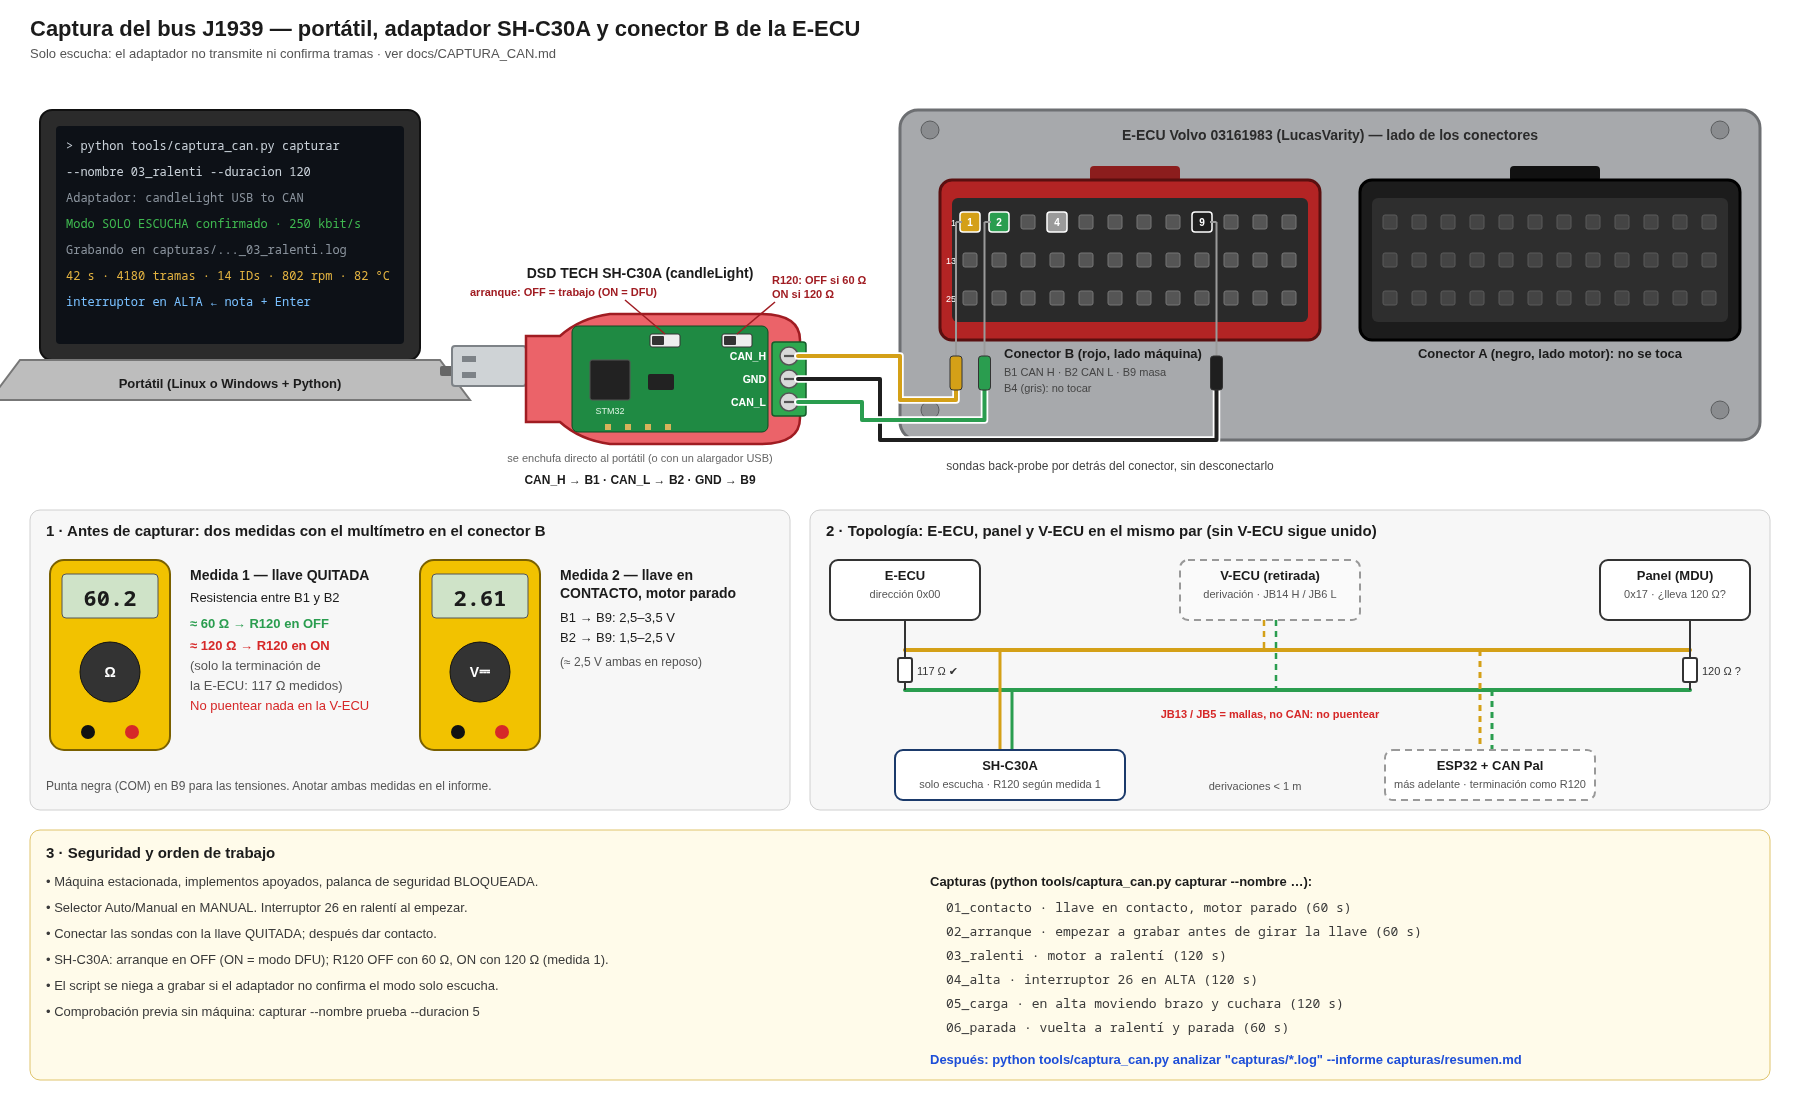
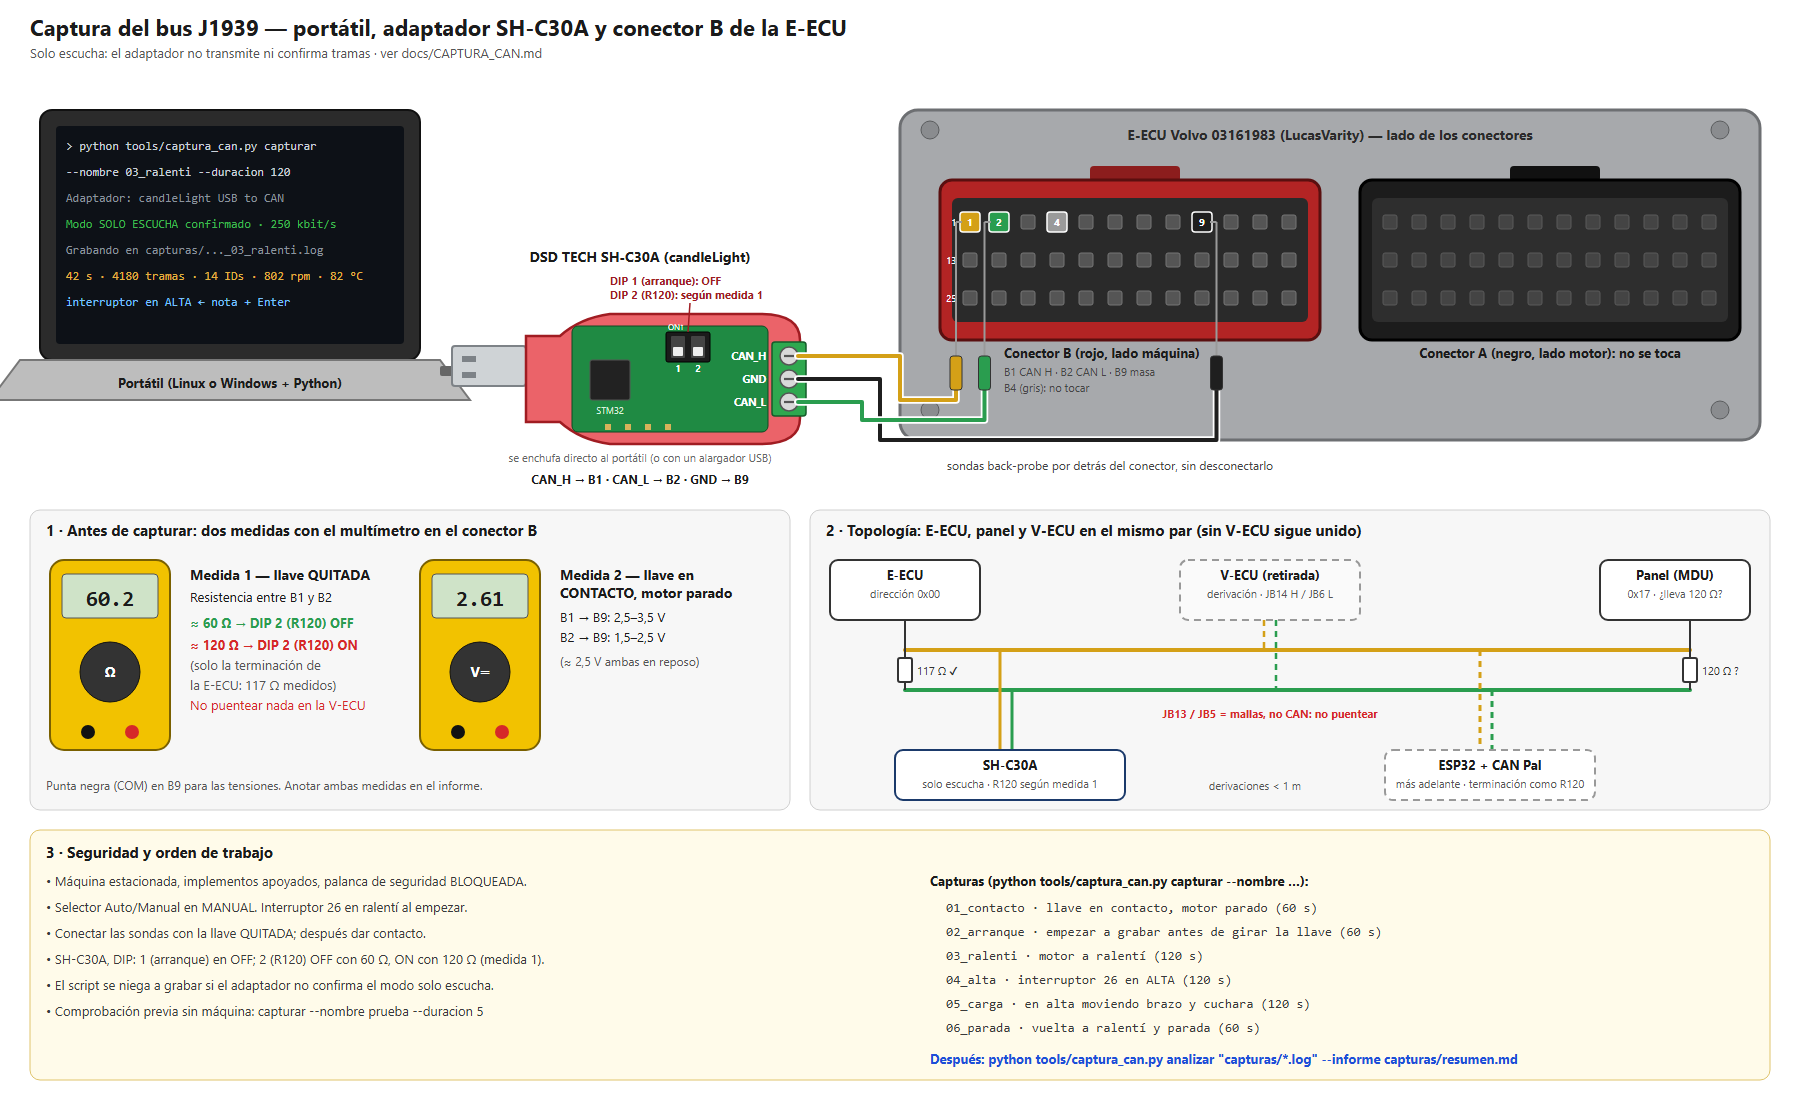
SH-C30A: DIP de 2 interruptores (1 = arranque, 2 = R120) y aviso de TX/RX cruzados
- docs/esquema_switches_SH-C30A (tools/gen_switches_shc30a.py): configuración del DIP para captura con 60 Ω / 120 Ω, banco y DFU. Asignación sacada del esquema oficial SH-C30A V1.21 (SW1).
- Diagrama de captura y CAPTURA_CAN.md con el DIP real.
- Diagrama de montaje: aviso de que TX → RXD y RX → TXD van cruzados a propósito.

diff --git a/tools/gen_switches_shc30a.py b/tools/gen_switches_shc30a.py
@@ -1,0 +1,109 @@
+"""Genera docs/esquema_switches_SH-C30A.svg: cómo configurar el DIP del adaptador SH-C30A.
+
+Asignación sacada del esquema oficial (github.com/dsdtech-official/can-adapters,
+SH-C30A-V1.21.SchDoc): SW1 es un DIP de 2 posiciones.
+    interruptor 1 (pines 1–4): BOOT0 ↔ +3V3  → ON = modo DFU (actualizar firmware)
+    interruptor 2 (pines 2–3): CAN_H ↔ 120 Ω ↔ CAN_L → ON = terminación conectada
+
+Uso:
+    python tools/gen_switches_shc30a.py docs/esquema_switches_SH-C30A.svg
+    chrome --headless=new --hide-scrollbars --window-size=1500,810 \\
+        --screenshot=docs/esquema_switches_SH-C30A.png docs/esquema_switches_SH-C30A.svg
+"""
+import sys
+
+W, H = 1500, 810
+FONT = "Segoe UI, Arial, Helvetica, sans-serif"
+out = []
+
+
+def a(s):
+    out.append(s)
+
+
+def esc(t):
+    return t.replace("&", "&amp;").replace("<", "&lt;").replace(">", "&gt;")
+
+
+def text(x, y, t, size=13, fill="#1b1b1b", anchor="start", weight="normal"):
+    a(f'<text x="{x}" y="{y}" font-size="{size}" fill="{fill}" text-anchor="{anchor}" '
+      f'font-weight="{weight}">{esc(t)}</text>')
+
+
+VERDE, ROJO, GRIS, AZUL = "#2a9d4f", "#d62828", "#6c757d", "#1d4ed8"
+
+
+def dip(x, y, s1, s2, escala=1.0):
+    """DIP de 2 posiciones visto de frente. s1/s2: 'ON', 'OFF' o None (indiferente)."""
+    w, h = 150 * escala, 120 * escala
+    a(f'<rect x="{x}" y="{y}" width="{w}" height="{h}" rx="{6 * escala}" fill="#1b1b1b" stroke="#000" stroke-width="2"/>')
+    text(x + 12 * escala, y + 22 * escala, "ON", size=14 * escala, fill="#ffffff", weight="bold")
+    a(f'<path d="M {x + 42 * escala} {y + 12 * escala} l {6 * escala} {-7 * escala} l {6 * escala} {7 * escala}" '
+      f'fill="none" stroke="#fff" stroke-width="2"/>')
+    for i, estado in enumerate((s1, s2)):
+        cx = x + (52 + 56 * i) * escala
+        top, alto = y + 30 * escala, 66 * escala
+        a(f'<rect x="{cx - 17 * escala}" y="{top}" width="{34 * escala}" height="{alto}" rx="3" fill="#3a3a3a"/>')
+        if estado is None:
+            a(f'<rect x="{cx - 13 * escala}" y="{top + 4 * escala}" width="{26 * escala}" height="{alto - 8 * escala}" '
+              f'rx="2" fill="none" stroke="#aaa" stroke-dasharray="4 3"/>')
+            text(cx, top + alto / 2 + 5 * escala, "?", size=16 * escala, fill="#aaa", anchor="middle", weight="bold")
+        else:
+            py = top + 4 * escala if estado == "ON" else top + alto / 2
+            col = VERDE if estado == "ON" else "#eeeeee"
+            a(f'<rect x="{cx - 13 * escala}" y="{py}" width="{26 * escala}" height="{alto / 2 - 4 * escala}" rx="2" fill="{col}" stroke="#222"/>')
+        text(cx, y + h - 8 * escala, str(i + 1), size=15 * escala, fill="#ffffff", anchor="middle", weight="bold")
+
+
+a(f'<svg xmlns="http://www.w3.org/2000/svg" width="{W}" height="{H}" viewBox="0 0 {W} {H}" font-family="{FONT}">')
+a(f'<rect width="{W}" height="{H}" fill="#ffffff"/>')
+text(30, 38, "SH-C30A — cómo poner los interruptores (DIP SW1)", size=24, weight="bold")
+text(30, 62, "Interruptor hacia la marca ON = ON (palanca arriba) · hacia abajo = OFF. Cambiarlo siempre con el adaptador DESENCHUFADO del USB.",
+     size=13, fill="#555")
+
+# ---------------------------------------------------------------- qué es cada interruptor
+a('<rect x="30" y="84" width="1440" height="200" rx="10" fill="#f7f7f7" stroke="#d0d0d0"/>')
+dip(60, 120, "OFF", "OFF", escala=1.15)
+text(260, 120, "Interruptor 1 — ARRANQUE (BOOT0)", size=17, weight="bold")
+text(260, 144, "ON  → el adaptador arranca en modo DFU: solo sirve para actualizar el firmware, NO captura.", size=14)
+text(260, 166, "OFF → modo de trabajo. Es su posición normal.", size=14, fill=VERDE, weight="bold")
+text(260, 204, "Interruptor 2 — TERMINACIÓN R120", size=17, weight="bold")
+text(260, 228, "ON  → conecta 120 Ω entre CAN_H y CAN_L (el adaptador hace de extremo del bus).", size=14)
+text(260, 250, "OFF → sin resistencia. Se usa cuando el bus ya tiene sus dos terminaciones.", size=14)
+text(260, 272, "Fuente: esquema oficial SH-C30A V1.21 (SW1: pines 1–4 = BOOT0↔3V3; pines 2–3 = CAN_H↔120 Ω↔CAN_L).", size=11.5, fill=GRIS)
+
+# ---------------------------------------------------------------- casos de uso
+casos = [
+    ("A", "Captura en la máquina", "B1–B2 ≈ 60 Ω (medida 1)", "OFF", "OFF",
+     ["El bus ya tiene dos terminaciones", "(E-ECU y panel).", "El adaptador va como derivación."], VERDE),
+    ("B", "Captura en la máquina", "B1–B2 ≈ 120 Ω (medida 1)", "OFF", "ON",
+     ["Solo termina la E-ECU:", "el adaptador pone la segunda", "terminación."], AZUL),
+    ("C", "Prueba de banco", "SH-C30A ↔ ESP32 + CAN Pal", "OFF", "ON",
+     ["Dos nodos solos en la mesa:", "R120 ON aquí y Termination ON", "en el CAN Pal (dos extremos)."], "#8338ec"),
+    ("D", "Actualizar el firmware", "solo si hace falta", "ON", None,
+     ["Poner 1 en ON y luego enchufar:", "aparece como dispositivo DFU.", "Al terminar, 1 en OFF y re-enchufar."], ROJO),
+]
+for i, (letra, titulo, sub, s1, s2, notas, color) in enumerate(casos):
+    x = 30 + i * 362
+    a(f'<rect x="{x}" y="304" width="346" height="330" rx="10" fill="#ffffff" stroke="{color}" stroke-width="3"/>')
+    a(f'<rect x="{x}" y="304" width="346" height="58" rx="10" fill="{color}"/>')
+    a(f'<rect x="{x}" y="340" width="346" height="22" fill="{color}"/>')
+    text(x + 16, 332, f"{letra} · {titulo}", size=17, fill="#ffffff", weight="bold")
+    text(x + 16, 353, sub, size=13, fill="#ffffff")
+    dip(x + 98, 382, s1, s2, escala=1.0)
+    text(x + 173, 528, f"1: {s1}   ·   2: {s2 if s2 else 'indiferente'}", size=16, anchor="middle", weight="bold")
+    for j, n in enumerate(notas):
+        text(x + 173, 566 + j * 22, n, size=13.5, fill="#333", anchor="middle")
+
+# ---------------------------------------------------------------- comprobación
+a('<rect x="30" y="654" width="1440" height="136" rx="10" fill="#fffbea" stroke="#e0c46c"/>')
+text(46, 682, "Comprobación con el multímetro (adaptador desenchufado y sin cables en el bornero)", size=15, weight="bold")
+text(46, 710, "• Resistencia entre los tornillos CAN_H y CAN_L: con el interruptor 2 en ON ≈ 120 Ω; en OFF, circuito abierto (OL).", size=14)
+text(46, 736, "• Así se confirma qué interruptor es la terminación antes de ir a la máquina, por si una unidad viniera distinta.", size=14)
+text(46, 762, "• En la máquina, conectar el adaptador con la llave QUITADA y repetir la medida 1 (B1–B2) con el interruptor 2 ya puesto:", size=14)
+text(62, 782, "el resultado debe ser ≈ 60 Ω (bus con dos terminaciones). Si da ≈ 40 Ω sobra una: poner el interruptor 2 en OFF.", size=14, fill=ROJO)
+
+a("</svg>")
+with open(sys.argv[1], "w", encoding="utf-8") as f:
+    f.write("\n".join(out))
+print("ok", len(out))

diff --git a/tools/gen_esquema_captura.py b/tools/gen_esquema_captura.py
@@ -87,11 +87,13 @@ a('<path d="M 526 336 L 560 336 Q 580 318 610 314 L 760 314 Q 800 314 800 340 L 
 a('<rect x="572" y="326" width="196" height="106" rx="6" fill="#1f8a43" stroke="#0f4a22"/>')
 a('<rect x="590" y="360" width="40" height="40" rx="2" fill="#222" stroke="#555"/>')
 text(610, 414, "STM32", size=9, fill="#d9f2df", anchor="middle")
-a('<rect x="648" y="374" width="26" height="16" rx="2" fill="#222"/>')
-# Interruptor de arranque (BOOT) en OFF; R120 según la medida 1
-for x, y in [(650, 334), (722, 334)]:
-    a(f'<rect x="{x}" y="{y}" width="30" height="13" rx="2" fill="#eeeeee" stroke="#333"/>')
-    a(f'<rect x="{x + 2}" y="{y + 2}" width="12" height="9" rx="1" fill="#333"/>')
+# DIP SW1 de 2 posiciones junto al bornero: 1 = arranque (BOOT0), 2 = R120
+a('<rect x="666" y="332" width="44" height="30" rx="2" fill="#1b1b1b" stroke="#000"/>')
+for n, x in [("1", 671), ("2", 691)]:
+    a(f'<rect x="{x}" y="336" width="14" height="22" rx="1" fill="#444"/>')
+    a(f'<rect x="{x + 2}" y="347" width="10" height="9" rx="1" fill="#eeeeee"/>')   # palanca abajo = OFF
+    text(x + 7, 372, n, size=9, fill="#ffffff", anchor="middle", weight="bold")
+text(668, 330, "ON↑", size=8, fill="#ffffff")
 for cx in (608, 628, 648, 668):
     a(f'<rect x="{cx - 3}" y="424" width="6" height="6" fill="#d8b25a"/>')
 # Bornero: CAN_H arriba, GND, CAN_L abajo
@@ -99,13 +101,11 @@ a('<rect x="772" y="342" width="34" height="74" rx="3" fill="#2fa84f" stroke="#1
 for n, y in [("CAN_H", 356), ("GND", 379), ("CAN_L", 402)]:
     screw(789, y, 9)
     text(766, y + 4, n, size=10.5, fill="#ffffff", anchor="end", weight="bold")
-text(640, 278, "DSD TECH SH-C30A (candleLight)", size=14, anchor="middle", weight="bold")
-# Rótulos de los interruptores
-a('<line x1="665" y1="334" x2="625" y2="300" stroke="#a01c22" stroke-width="1.5"/>')
-text(470, 296, "arranque: OFF = trabajo (ON = DFU)", size=11, fill="#a01c22", weight="bold")
-a('<line x1="737" y1="334" x2="775" y2="302" stroke="#a01c22" stroke-width="1.5"/>')
-text(772, 284, "R120: OFF si 60 Ω", size=11, fill="#a01c22", weight="bold")
-text(772, 298, "ON si 120 Ω", size=11, fill="#a01c22", weight="bold")
+text(640, 262, "DSD TECH SH-C30A (candleLight)", size=14, anchor="middle", weight="bold")
+# Rótulo del DIP
+a('<line x1="688" y1="332" x2="690" y2="303" stroke="#a01c22" stroke-width="1.5"/>')
+text(610, 285, "DIP 1 (arranque): OFF", size=11, fill="#a01c22", weight="bold")
+text(610, 299, "DIP 2 (R120): según medida 1", size=11, fill="#a01c22", weight="bold")
 text(640, 462, "se enchufa directo al portátil (o con un alargador USB)", size=11, fill="#666", anchor="middle")
 
 # ================================================================ E-ECU con conectores B (rojo) y A (negro)
@@ -182,8 +182,8 @@ def multimetro(x, y, lectura, modo):
 multimetro(50, 560, "60.2", "Ω")
 text(190, 580, "Medida 1 — llave QUITADA", size=14, weight="bold")
 text(190, 602, "Resistencia entre B1 y B2", size=13)
-text(190, 628, "≈ 60 Ω → R120 en OFF", size=13, fill="#2a9d4f", weight="bold")
-text(190, 650, "≈ 120 Ω → R120 en ON", size=13, fill="#d62828", weight="bold")
+text(190, 628, "≈ 60 Ω → DIP 2 (R120) OFF", size=13, fill="#2a9d4f", weight="bold")
+text(190, 650, "≈ 120 Ω → DIP 2 (R120) ON", size=13, fill="#d62828", weight="bold")
 text(190, 670, "(solo la terminación de", size=13, fill="#555")
 text(190, 690, "la E-ECU: 117 Ω medidos)", size=13, fill="#555")
 text(190, 710, "No puentear nada en la V-ECU", size=13, fill="#d62828")
@@ -245,7 +245,7 @@ izq = [
     "• Máquina estacionada, implementos apoyados, palanca de seguridad BLOQUEADA.",
     "• Selector Auto/Manual en MANUAL. Interruptor 26 en ralentí al empezar.",
     "• Conectar las sondas con la llave QUITADA; después dar contacto.",
-    "• SH-C30A: arranque en OFF (ON = modo DFU); R120 OFF con 60 Ω, ON con 120 Ω (medida 1).",
+    "• SH-C30A, DIP: 1 (arranque) en OFF; 2 (R120) OFF con 60 Ω, ON con 120 Ω (medida 1).",
     "• El script se niega a grabar si el adaptador no confirma el modo solo escucha.",
     "• Comprobación previa sin máquina:  capturar --nombre prueba --duracion 5",
 ]

diff --git a/tools/gen_esquema_montaje.py b/tools/gen_esquema_montaje.py
@@ -215,6 +215,12 @@ text(145, 607, "EN y G0 sin conectar: grabar con el botón IO0", size=11, fill="
 wire([(1205, 537), (1205, 492), (300, 492), (300, 470), (255, 470)], C["ptx"])   # TX → RXD
 wire([(1175, 537), (1175, 504), (290, 504), (290, 490), (255, 490)], C["prx"])   # RX → TXD
 wire([(1145, 537), (1145, 516), (265, 516), (265, 550), (255, 550)], C["gnd"])   # GND → GND
+# Aviso: TX y RX van cruzados a propósito
+a('<line x1="420" y1="532" x2="420" y2="508" stroke="#b45309" stroke-width="1.5"/>')
+a('<circle cx="420" cy="498" r="13" fill="none" stroke="#b45309" stroke-width="2"/>')
+a('<rect x="306" y="532" width="272" height="48" rx="6" fill="#fff7e0" stroke="#b45309" stroke-width="1.5"/>')
+text(442, 551, "TX → RXD y RX → TXD: cruzados a propósito", size=11, fill="#7a3e00", anchor="middle", weight="bold")
+text(442, 569, "Es lo correcto: lo que uno envía, el otro lo recibe.", size=10.5, fill="#7a3e00", anchor="middle")
 
 # ================================================================ Adafruit CAN Pal (girado 90°: pines a la derecha)
 a('<rect x="380" y="640" width="180" height="180" rx="12" fill="#1a1a1a" stroke="#000" stroke-width="2"/>')

diff --git a/docs/CAPTURA_CAN.md b/docs/CAPTURA_CAN.md
@@ -9,7 +9,11 @@ Diagrama de conexiones (fuente: [`esquema_captura_CAN.svg`](esquema_captura_CAN.
 ## Material
 
 - Portátil de pruebas con Linux (CachyOS, ya preparado) o, como alternativa, Windows con Python 3.
-- Adaptador **DSD TECH SH-C30A** ([B0BQ5G3KLR](https://www.amazon.es/dp/B0BQ5G3KLR)): basado en CANable, firmware **candleLight** de fábrica. Se enchufa **directo por USB-A** al portátil (o con un alargador USB). Bornero de 3 tornillos, de arriba abajo **CAN_H · GND · CAN_L**; interruptor **R120** (terminación) e **interruptor de arranque** (ON = modo DFU para actualizar el firmware, **OFF = modo de trabajo**).
+- Adaptador **DSD TECH SH-C30A** ([B0BQ5G3KLR](https://www.amazon.es/dp/B0BQ5G3KLR)): basado en CANable, firmware **candleLight** de fábrica. Se enchufa **directo por USB-A** al portátil (o con un alargador USB). Bornero de 3 tornillos, de arriba abajo **CAN_H · GND · CAN_L**; un **DIP de 2 interruptores** junto al bornero: **1 = arranque** (ON = modo DFU para actualizar el firmware, **OFF = modo de trabajo**) y **2 = terminación R120** (ON = 120 Ω entre CAN_H y CAN_L). Asignación sacada del esquema oficial (SW1, SH-C30A V1.21).
+
+![Cómo poner los interruptores del SH-C30A](esquema_switches_SH-C30A.png)
+
+Configuración del DIP para cada caso (fuente: [`esquema_switches_SH-C30A.svg`](esquema_switches_SH-C30A.svg), generado con `tools/gen_switches_shc30a.py`). Antes de ir a la máquina, comprobar con el multímetro que el interruptor 2 es la terminación: CAN_H–CAN_L ≈ 120 Ω con 2 en ON y abierto con 2 en OFF.
 - Tres sondas back-probe (B9 de la lista de compra) y multímetro.
 
 ## 0. Seguridad
@@ -25,7 +29,7 @@ Topología (circuito OEM, `esquemas/ce_EC-B_UPDATE_p06_zoom_bus_J1939_J1587_pine
 | Paso | Condición | Medir | Esperado |
 |---|---|---|---|
 | 0 | En el taller, **E-ECU suelta** | Resistencia **B1–B2** en la propia E-ECU | ✅ **117 Ω medidos (2026-10-20)**: la E-ECU lleva su terminación de 120 Ω dentro |
-| 1 | **Llave quitada**, E-ECU montada | Resistencia **B1–B2** | **≈ 60 Ω**: dos terminaciones (E-ECU y panel) → R120 del SH-C30A en **OFF**. **≈ 120 Ω**: solo la de la E-ECU; el panel (MDU de 2002) no termina el bus o no está en él → R120 en **ON**. **Anotarlo** |
+| 1 | **Llave quitada**, E-ECU montada | Resistencia **B1–B2** | **≈ 60 Ω**: dos terminaciones (E-ECU y panel) → DIP 2 (R120) del SH-C30A en **OFF**. **≈ 120 Ω**: solo la de la E-ECU; el panel (MDU de 2002) no termina el bus o no está en él → DIP 2 (R120) en **ON**. **Anotarlo** |
 | 1b | (opcional) Llave quitada, **E-ECU desenchufada** | Resistencia **B1–B2** en la clavija del mazo | **≈ 120 Ω**: terminación del panel. **Abierto**: no hay otra terminación en el mazo |
 | 2 | **Llave en contacto**, motor parado | Tensión **B1→B9** (CAN H) y **B2→B9** (CAN L) | ≈ 2,5 V ambas; con tráfico, CAN H 2,5–3,5 V y CAN L 1,5–2,5 V. El pin más alto es **CAN H** (tornillo de arriba del SH-C30A) |
 
@@ -65,7 +69,7 @@ Con candleLight, Windows suele cargar el driver WinUSB solo. Si el script dice q
 
 ### Comprobación sin máquina
 
-Enchufar el SH-C30A con el **interruptor de arranque en OFF** (en ON arranca en modo DFU y no captura). Debe decir «Modo SOLO ESCUCHA confirmado»:
+Enchufar el SH-C30A con el **DIP 1 (arranque) en OFF** (en ON arranca en modo DFU y no captura). Debe decir «Modo SOLO ESCUCHA confirmado»:
 
 ```bash
 python tools/captura_can.py capturar --nombre prueba --duracion 5
@@ -78,7 +82,7 @@ python tools/captura_can.py capturar --nombre prueba --duracion 5
 | CAN_H (tornillo de arriba) | **B1** (amarillo) | back-probe |
 | GND (tornillo del medio) | **B9** (o B10) | back-probe |
 | CAN_L (tornillo de abajo) | **B2** (verde) | back-probe |
-| Interruptor **R120** | **OFF** si B1–B2 ≈ 60 Ω · **ON** si ≈ 120 Ω | el bus debe quedar con dos terminaciones (paso 1) |
+| DIP **1** (arranque) · DIP **2** (R120) | 1 **OFF** siempre · 2 **OFF** si B1–B2 ≈ 60 Ω, **ON** si ≈ 120 Ω | el bus debe quedar con dos terminaciones (paso 1) |
 
 Alternativa: JB14 / JB6 en el mazo de la V-ECU. Conectar **antes** de dar contacto.
 

diff --git a/README.md b/README.md
@@ -46,6 +46,7 @@ docs/
 ├── CONTROL_RPM.md                  ← alcance actual: control de rpm (TSC1 por CAN y relé sobre B4), plan de pruebas
 ├── CAPTURA_CAN.md                  ← cómo medir y capturar el bus de la máquina con el portátil y el SH-C30A
 ├── esquema_captura_CAN.svg/.png    ← diagrama de conexiones de la captura (portátil, SH-C30A, conector B, bus)
+├── esquema_switches_SH-C30A.svg/.png ← cómo poner el DIP del SH-C30A (arranque y R120) en cada caso
 ├── esquema_rpm_ESP32.svg/.png      ← esquema de la versión solo-rpm con módulos premontados
 ├── esquema_montaje_ESP32.svg/.png  ← diagrama ilustrado de montaje: placa, módulos, conector B e interruptor 26
 ├── LISTA_COMPRA.md                 ← lo que falta comprar para el control de rpm (Amazon España)
@@ -59,6 +60,7 @@ firmware/
 tools/
 ├── gen_esquema_montaje.py          ← genera docs/esquema_montaje_ESP32.svg
 ├── gen_esquema_captura.py          ← genera docs/esquema_captura_CAN.svg
+├── gen_switches_shc30a.py          ← genera docs/esquema_switches_SH-C30A.svg
 ├── captura_can.py                  ← captura (solo escucha) y análisis del bus J1939 con el portátil
 ├── panel_esp32.py / .html          ← panel en el navegador para la placa: modos, relé, ajustes y log
 ├── linux/                          ← reglas udev e instalador de permisos USB (portátil de pruebas)

diff --git a/CHANGELOG.md b/CHANGELOG.md
@@ -4,6 +4,10 @@ Todos los cambios relevantes del proyecto se documentan aquí. Formato basado en
 
 ## [Unreleased]
 
+### Añadido (SH-C30A)
+- `docs/esquema_switches_SH-C30A.svg/.png` (`tools/gen_switches_shc30a.py`): cómo poner el **DIP de 2 interruptores** del SH-C30A para cada caso (captura con 60 Ω o 120 Ω, banco, actualizar firmware). Asignación sacada del esquema oficial: **1 = arranque (BOOT0, ON = DFU)**, **2 = terminación R120**. Diagrama de captura y `CAPTURA_CAN.md` actualizados con el DIP.
+- Diagrama de montaje: aviso junto a los cables del programador de que **TX → RXD y RX → TXD van cruzados a propósito** (es lo correcto).
+
 ### Corregido
 - Diagrama de montaje: en las dos tiras de pines de la placa estaban **intercambiadas la fila interior y la exterior**. Corregido en `tools/gen_esquema_montaje.py` con el cableado rehecho (IO4/IO17/IO18/IO22 y GND en la fila interior de la tira izquierda; IO27/IO32, 3V3 y GND en la exterior de la derecha).
 - Revisión del diagrama de montaje: comentarios del generador al día con las filas corregidas, rótulo «AMS1117» legible, programador rotulado como `ttyACM0 / COMx`; en `docs/HARDWARE_PLACA_ESP32_RELE.md`, qué fila de cada tira es la interior y cuál la exterior.
